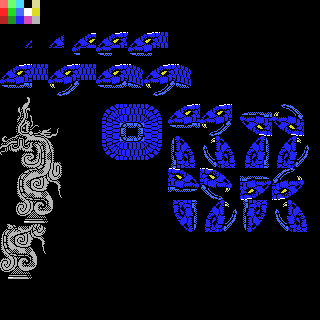
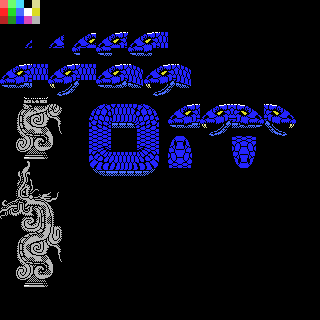
first draft of phase 2 tiles drawn, and added to assembler

Changed region(s): [[0.2812, 0.3125, 0.9688, 0.75], [0.0, 0.3125, 0.2188, 0.9062]]

diff --git a/java/src/xspelunker2/Bosses.java b/java/src/xspelunker2/Bosses.java
@@ -809,8 +809,8 @@ public class Bosses {
     {
         List<Integer> nameTableData = new ArrayList<>();        
         
+        // Phase 1:
         {
-            // base face:
             String bossBaseTiles = "data/boss7-base-tiles.png";
             String boss7Tiles = "data/boss7.png";
             boolean availableTiles[] = new boolean[256];
@@ -819,23 +819,31 @@ public class Bosses {
             BufferedImage baseImage = ImageIO.read(new File(bossBaseTiles));        
 
             List<int[]> nameTableBoxes = new ArrayList<>();
-            nameTableBoxes.add(new int[]{0, 32, 256, 96});  // snake
-            List<int[][]> nametables1 = addBossTilesInGapsForBoxes(nameTableBoxes, baseImage, boss7Tiles, availableTiles, collision, false, false);
-            
-            // mark remaining available tiles as '2' (as the statue does not hurt the player):
-            for(int i = 0;i<256;i++) {
-                if (availableTiles[i]) collision[i] = 2;
-            }
             nameTableBoxes.clear();
-            nameTableBoxes.add(new int[]{0, 96, 64, 224});  // statue
-            List<int[][]> nametables2 = addBossTilesInGapsForBoxes(nameTableBoxes, baseImage, boss7Tiles, availableTiles, collision, false, false);
-
+            nameTableBoxes.add(new int[]{0, 96, 64, 288});  // statue
+            List<int[][]> nametables_statue = addBossTilesInGapsForBoxes(nameTableBoxes, baseImage, boss7Tiles, availableTiles, collision, false, true);
+            // mark statue tiles with "2":
+            for(int i = 0;i<256;i++) {
+                if (collision[i] == 9 && !availableTiles[i]) {
+                    collision[i] = 2;
+                }
+            }            
+            // phase 1 snake tiles:
+            nameTableBoxes.clear();
+            nameTableBoxes.add(new int[]{0, 32, 256, 96});  // snake
+            List<int[][]> nametables_phase1 = addBossTilesInGapsForBoxes(nameTableBoxes, baseImage, boss7Tiles, availableTiles, collision, false, false);
+            
+            // phase 2 tiles:
+//            nameTableBoxes.clear();
+//            nameTableBoxes.add(new int[]{88, 104, 232, 232});  // phase 2 snake
+//            List<int[][]> nametables3 = addBossTilesInGapsForBoxes(nameTableBoxes, baseImage, boss7Tiles, availableTiles, collision, false, false);
+            
             // statue:
-            int nameTable[][] = nametables2.get(0);
-            addNameTable(nameTable, 0, 0, 8, 15, nameTableData);  // statue  8x15
+            int nameTable[][] = nametables_statue.get(0);
+            addNameTable(nameTable, 0, 8, 8, 24, nameTableData);  // statue full  8x16
 
             // snake within statue phase 1:
-            nameTable = nametables1.get(0);
+            nameTable = nametables_phase1.get(0);
             addNameTable(nameTable, 3, 1, 4, 2, nameTableData);  // appearing 1 1x1
             addNameTable(nameTable, 6, 0, 8, 2, nameTableData);  // appearing 2 2x2
             addNameTable(nameTable, 9, 0, 12, 3, nameTableData);  // appearing 3 3x3
@@ -858,7 +866,51 @@ public class Bosses {
             
             ImageIO.write(baseImage, "png", new File("data/boss7-tiles.png"));
             GenerateTiles.extractTiles("data/boss7-tiles.png", "src/autogenerated/boss7-tiles", 24, 128);
-        }        
+        }
+        
+        // Phase 2:
+        {
+            String bossBaseTiles = "data/boss7-base-tiles.png";
+            String boss7Tiles = "data/boss7.png";
+            boolean availableTiles[] = new boolean[256];
+            int collision[] = new int[256];
+            findAvailableBossTiles(bossBaseTiles, availableTiles, collision, moon_boss_collision, false);
+            BufferedImage baseImage = ImageIO.read(new File(bossBaseTiles));        
+
+            List<int[]> nameTableBoxes = new ArrayList<>();
+            nameTableBoxes.clear();
+            nameTableBoxes.add(new int[]{0, 96, 64, 160});  // statue
+            List<int[][]> nametables_statue = addBossTilesInGapsForBoxes(nameTableBoxes, baseImage, boss7Tiles, availableTiles, collision, false, true);
+            // mark statue tiles with "2":
+            for(int i = 0;i<256;i++) {
+                if (collision[i] == 9 && !availableTiles[i]) {
+                    collision[i] = 2;
+                }
+            }            
+            // phase 2 snake tiles:
+            nameTableBoxes.clear();
+            nameTableBoxes.add(new int[]{88, 104, 296, 176});
+            List<int[][]> nametables_phase2 = addBossTilesInGapsForBoxes(nameTableBoxes, baseImage, boss7Tiles, availableTiles, collision, false, false);
+            
+            // broken statue:
+            int nameTable[][] = nametables_statue.get(0);
+            addNameTable(nameTable, 2, 1, 8, 8, nameTableData);  // statue broken  6x7
+
+            // snake within statue phase 2:
+            nameTable = nametables_phase2.get(0);
+//            addNameTable(nameTable, 3, 1, 4, 2, nameTableData);  // ...
+            
+            for(int i = 0;i<16;i++) {
+                String line = "    db ";
+                for(int j = 0;j<16;j++) {
+                    line += collision[j + i*16] + ", ";
+                }
+                System.out.println(line.substring(0, line.length() - 2));
+            }
+            
+            ImageIO.write(baseImage, "png", new File("data/boss7-tiles-phase2.png"));
+            GenerateTiles.extractTiles("data/boss7-tiles-phase2.png", "src/autogenerated/boss7-tiles-phase2", 24, 128);
+        }                
                 
         System.out.println("name tables: " + nameTableData.size() + " bytes");
         Z80Assembler.dataToBinary(nameTableData, "src/autogenerated/boss7-nametables.bin");
